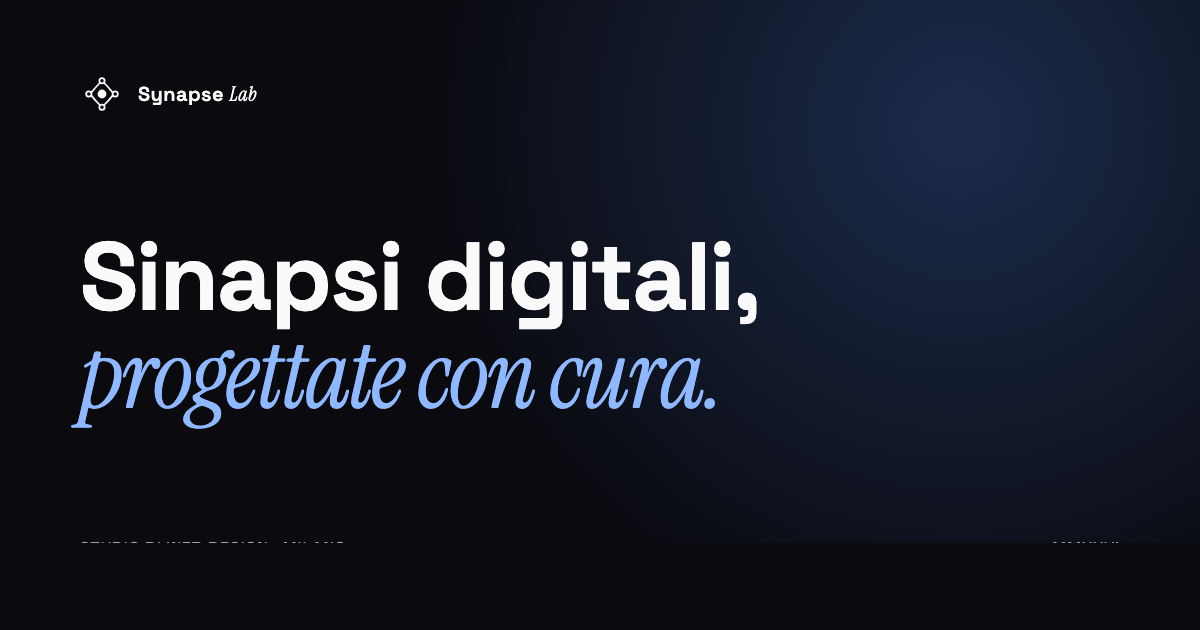
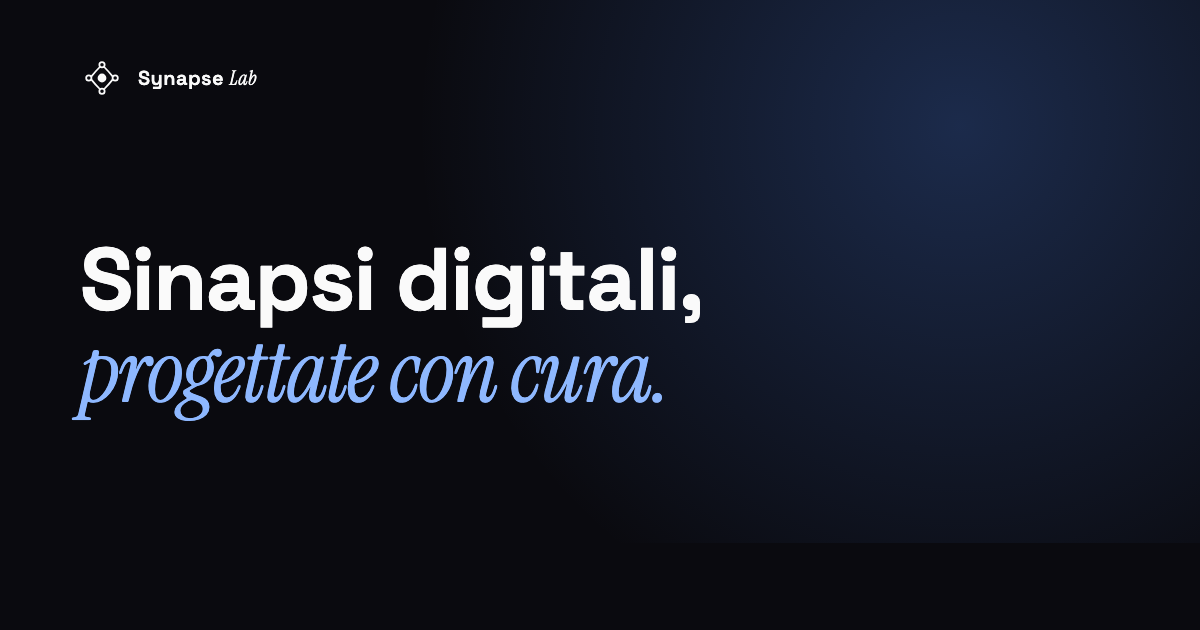
seo: fix OG image footer clipping (padding + h1 size)

Changed region(s): [[0.0617, 0.3619, 0.6475, 0.6937], [0.0617, 0.0905, 0.2158, 0.181]]

diff --git a/synapse-lab/og-image.html b/synapse-lab/og-image.html
@@ -10,7 +10,7 @@
     background: #0a0a0f;
     color: #fafafa;
     font-family: 'Space Grotesk', sans-serif;
-    padding: 72px 80px;
+    padding: 56px 80px;
     display: flex; flex-direction: column; justify-content: space-between;
     position: relative; overflow: hidden;
   }
@@ -23,7 +23,7 @@
   .brand { font-weight: 600; letter-spacing: 0.02em; font-size: 20px; }
   .brand em { font-family: 'Instrument Serif', serif; font-style: italic; font-weight: 400; }
   h1 {
-    font-size: 96px; font-weight: 700; line-height: 1.02; letter-spacing: -0.02em;
+    font-size: 88px; font-weight: 700; line-height: 1.04; letter-spacing: -0.02em;
     position: relative; z-index: 1; max-width: 900px;
   }
   h1 em { font-family: 'Instrument Serif', serif; font-style: italic; font-weight: 400; color: #8eb8ff; }
